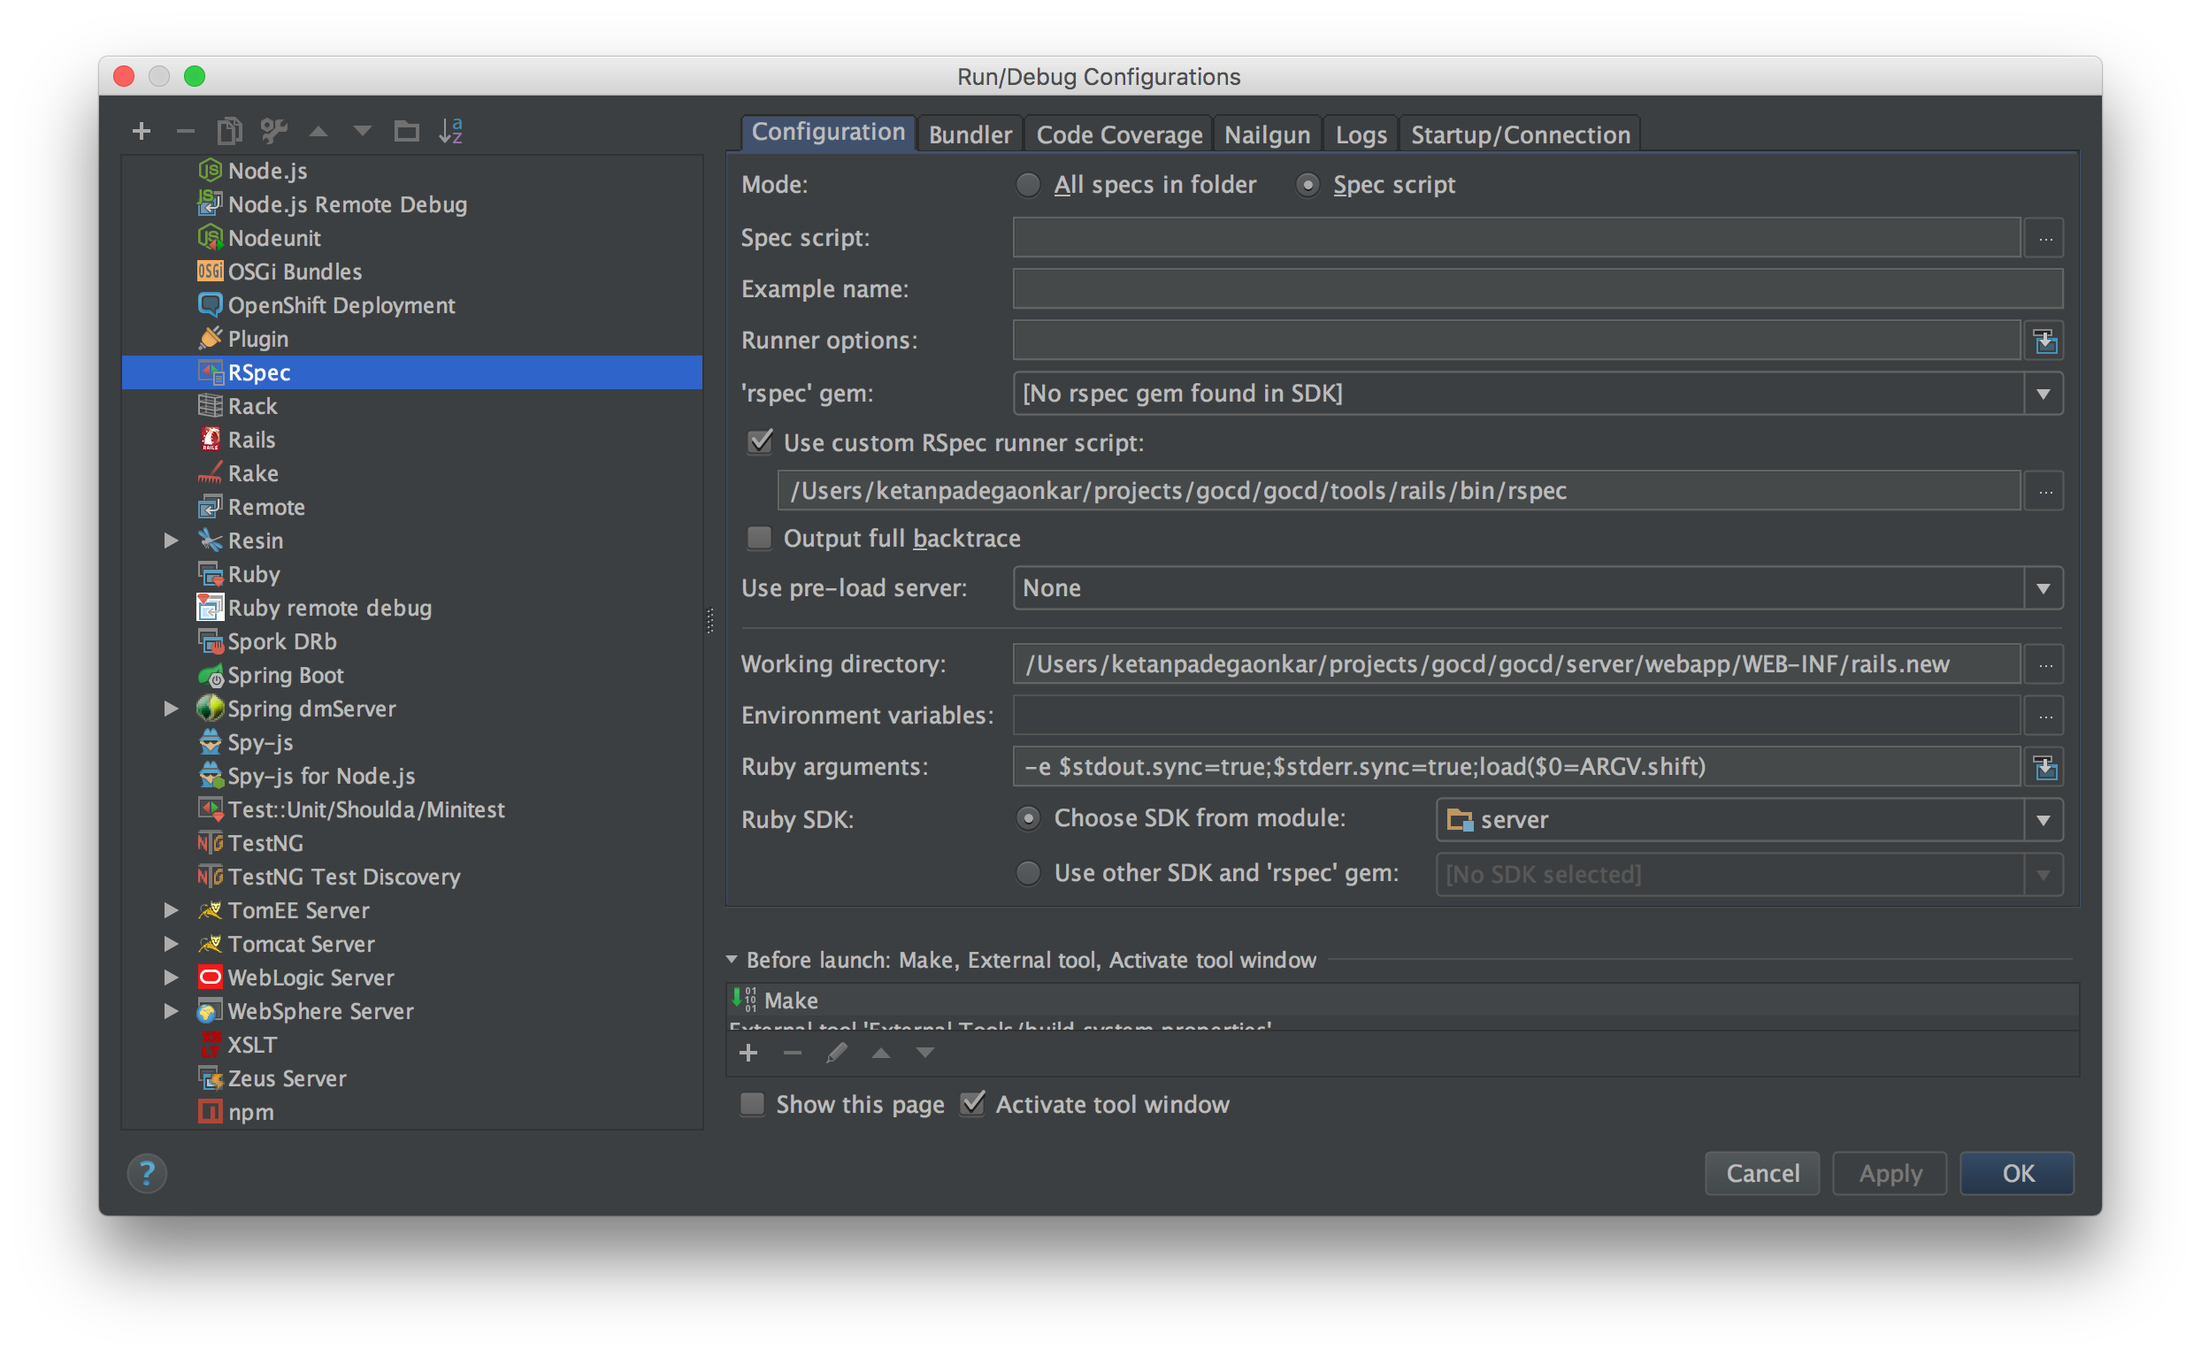
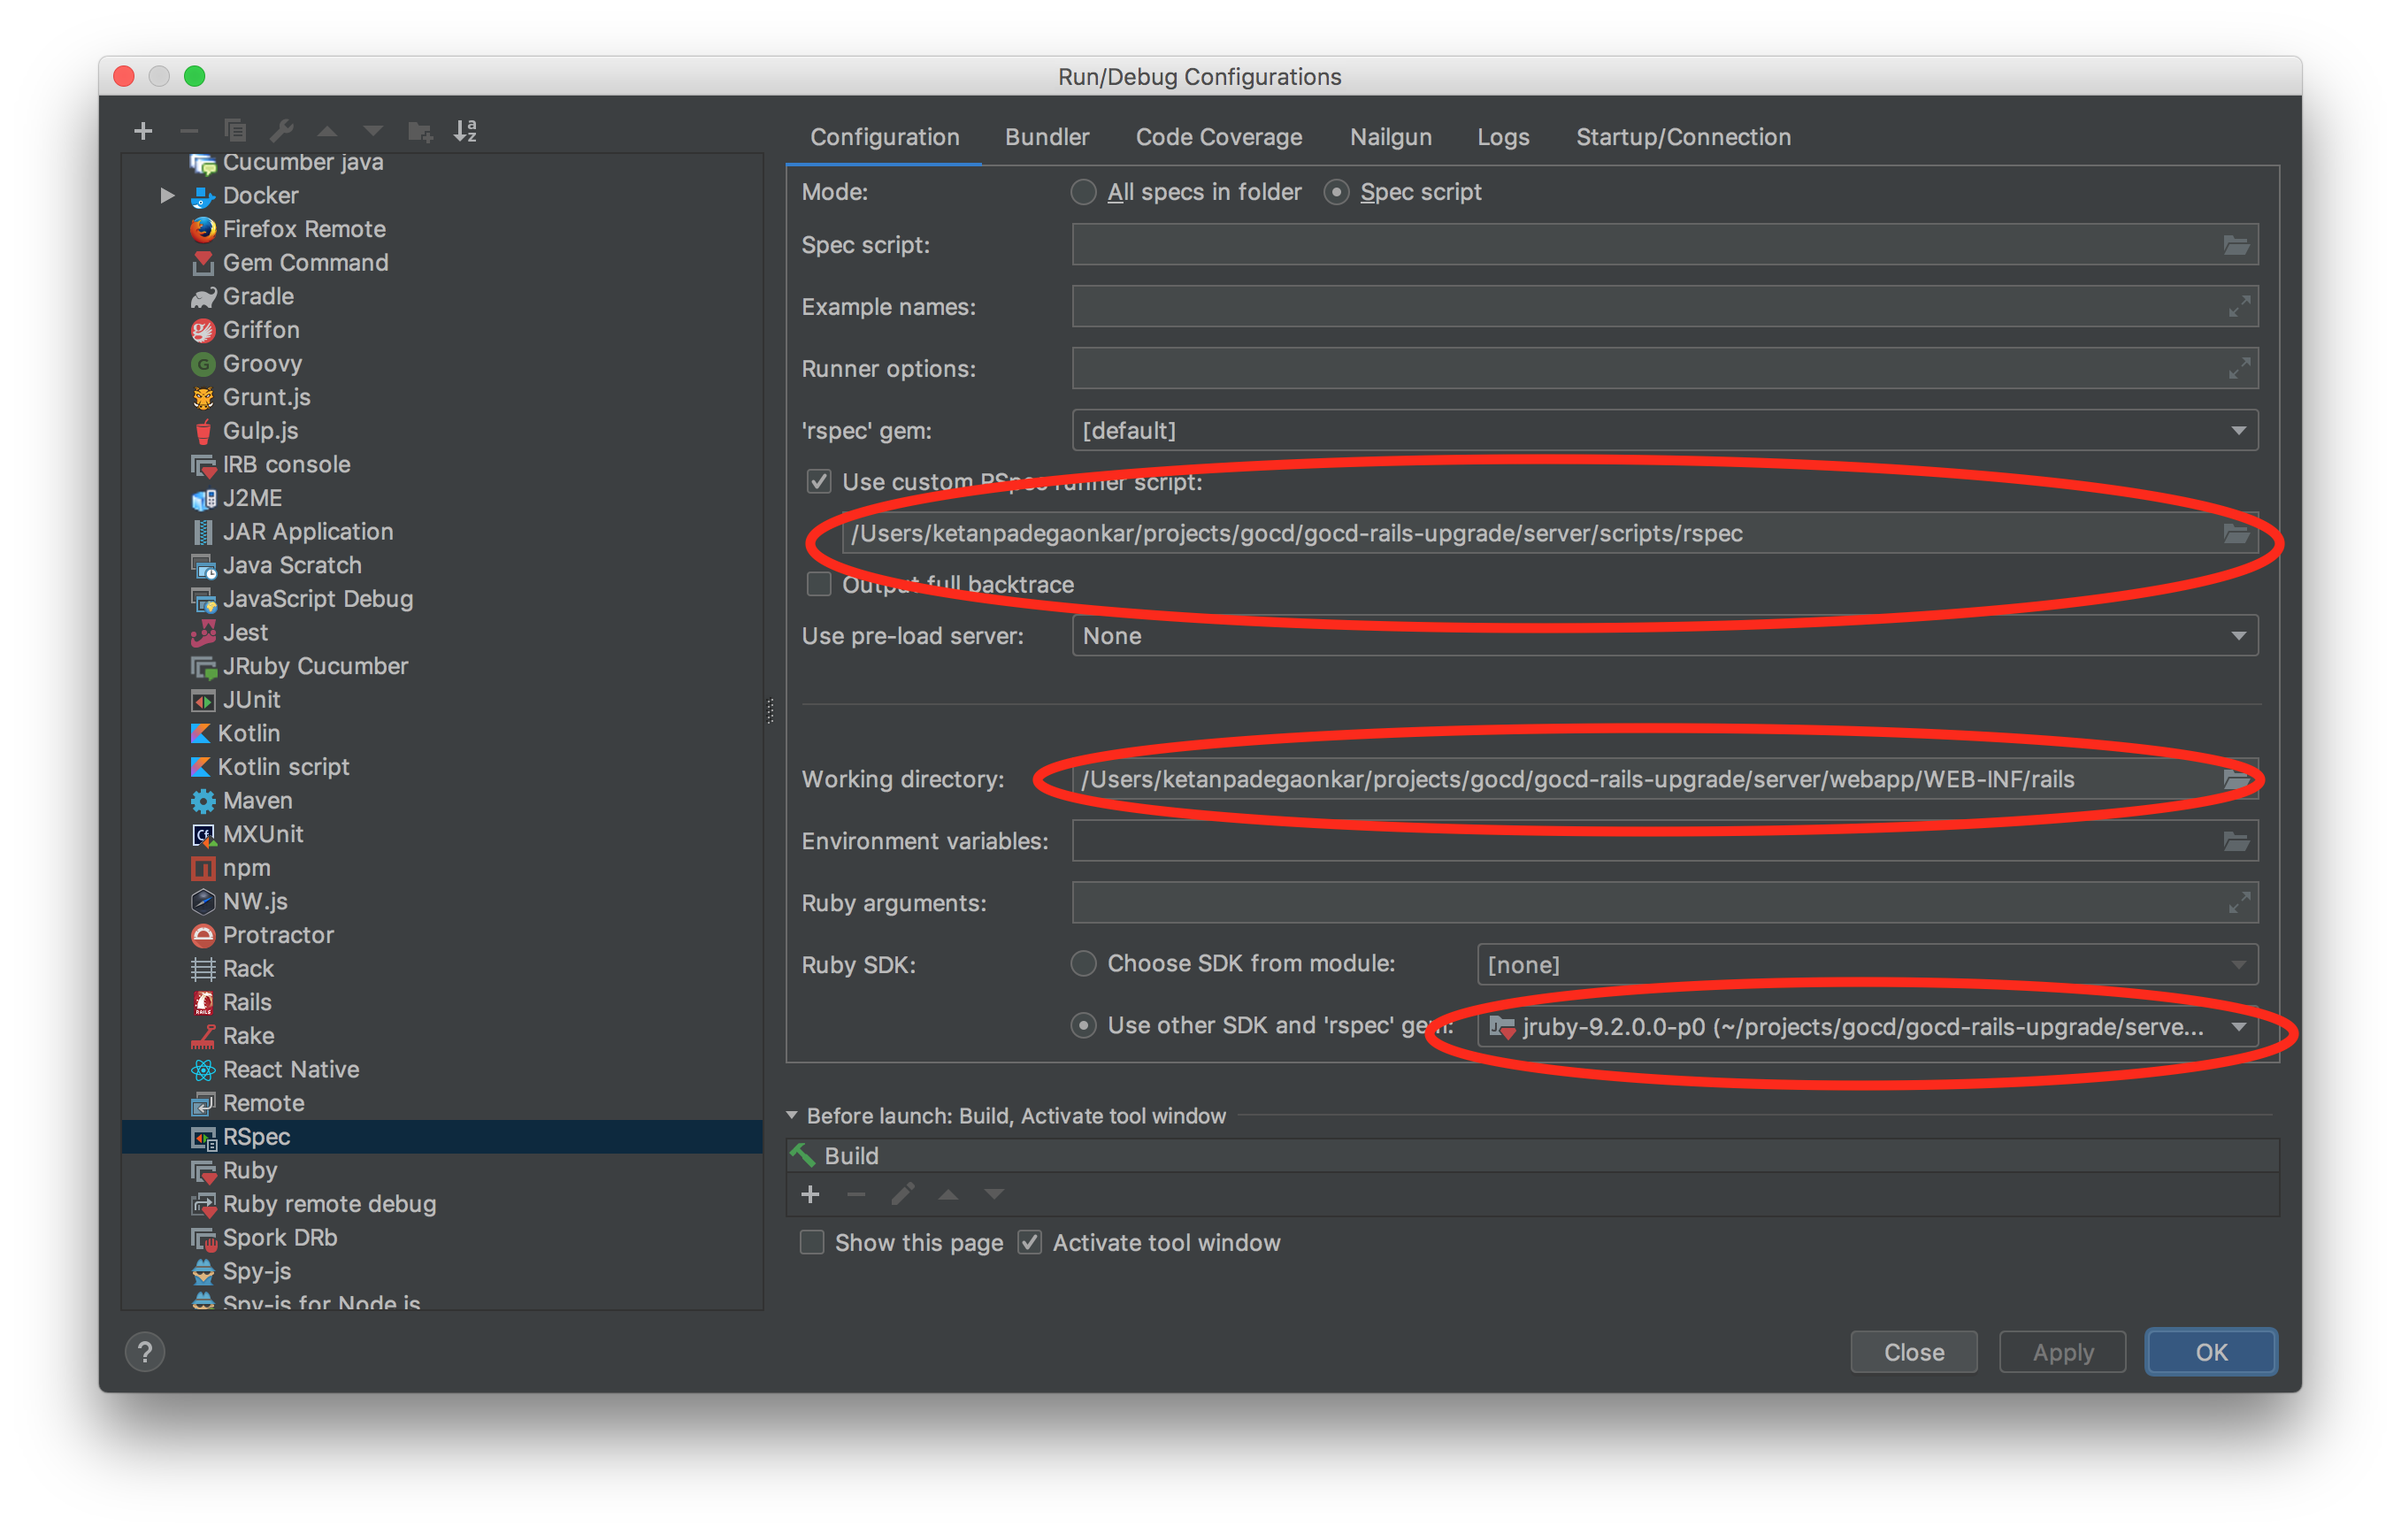
Fixup docs to reflect the new jruby 9000 setup

Changed region(s): [[0.0309, 0.0306, 0.9594, 0.9192], [0.3404, 0.766, 0.5571, 0.8272]]

diff --git a/source/2/2.1.md b/source/2/2.1.md
@@ -111,26 +111,35 @@ $ ./gradlew rspec -Popts='--pattern spec/foo/bar_spec.rb' # to run a single spec
 
 ### 2.1.6 Running RSpec tests from IntelliJ
 
-1. First ensure that your JRuby SDK is setup properly
+1. Ensure that your JRuby SDK is setup properly
 
     ```
-    Ruby interpreter path: <project-directory>/tools/rails/bin/jruby
-    Language level: 2.0
-    Gems bin directory: <project-directory>/tools/rails/bin
+    Ruby interpreter path: <project-directory>/server/scripts/jruby
     ```
 
     ![](images/jruby-setup.png)
 
-2. Configure the default RSpec run configuration
+2. Ensure that your project module "server>server_test" is setup properly.
+
+  1. Click "File menu > Project Structure"
+  2. Select "Modules" in the "Project Structure" dialog
+  3. Navigate to "server>server_test" and right-click to add "JRuby" (select the right jruby version). Then right click to add "JRuby on Rails"
+    
+    ![](images/idea-configure-module-add-jruby.png)
+
+    ![](images/idea-configure-module-add-rails.png)
+
+3. Configure the default RSpec run configuration
 
   1. Open `Run -> Edit configurations...`
   2. Open the `Defaults` section and select `RSpec` in the listing
   3. Check the `Use custom RSpec runner script` checkbox
-  4. Select `rspec` from `~/projects/go/tools/bin/rspec`
-  5. Set the working directory to `~/projects/go/server/webapp/WEB-INF/rails.new`
+  4. Select `rspec` from `<project-directory>/server/scripts/jruby/rspec`
+  5. Set the working directory to `<project-directory>/server/webapp/WEB-INF/rails`
+  6. Set the `Ruby SDK` option to `Use other SDK and 'rspec' gem` with the dropdown set to the correct version of JRuby that you configured above `jruby-9.2.0.0`
      ![](images/idea-configure-rspec.png)
-  6. Click `Apply` to save
-  7. Open a spec file and run it `Run -> Run 'somefile_spec.rb'`, or `Ctrl+Shift+F10`
+  7. Click `Apply` to save
+  8. Open a spec file and run it `Run -> Run 'somefile_spec.rb'`, or `Ctrl+Shift+F10`
 
 ### 2.1.7 Running integration tests from IntelliJ
 
